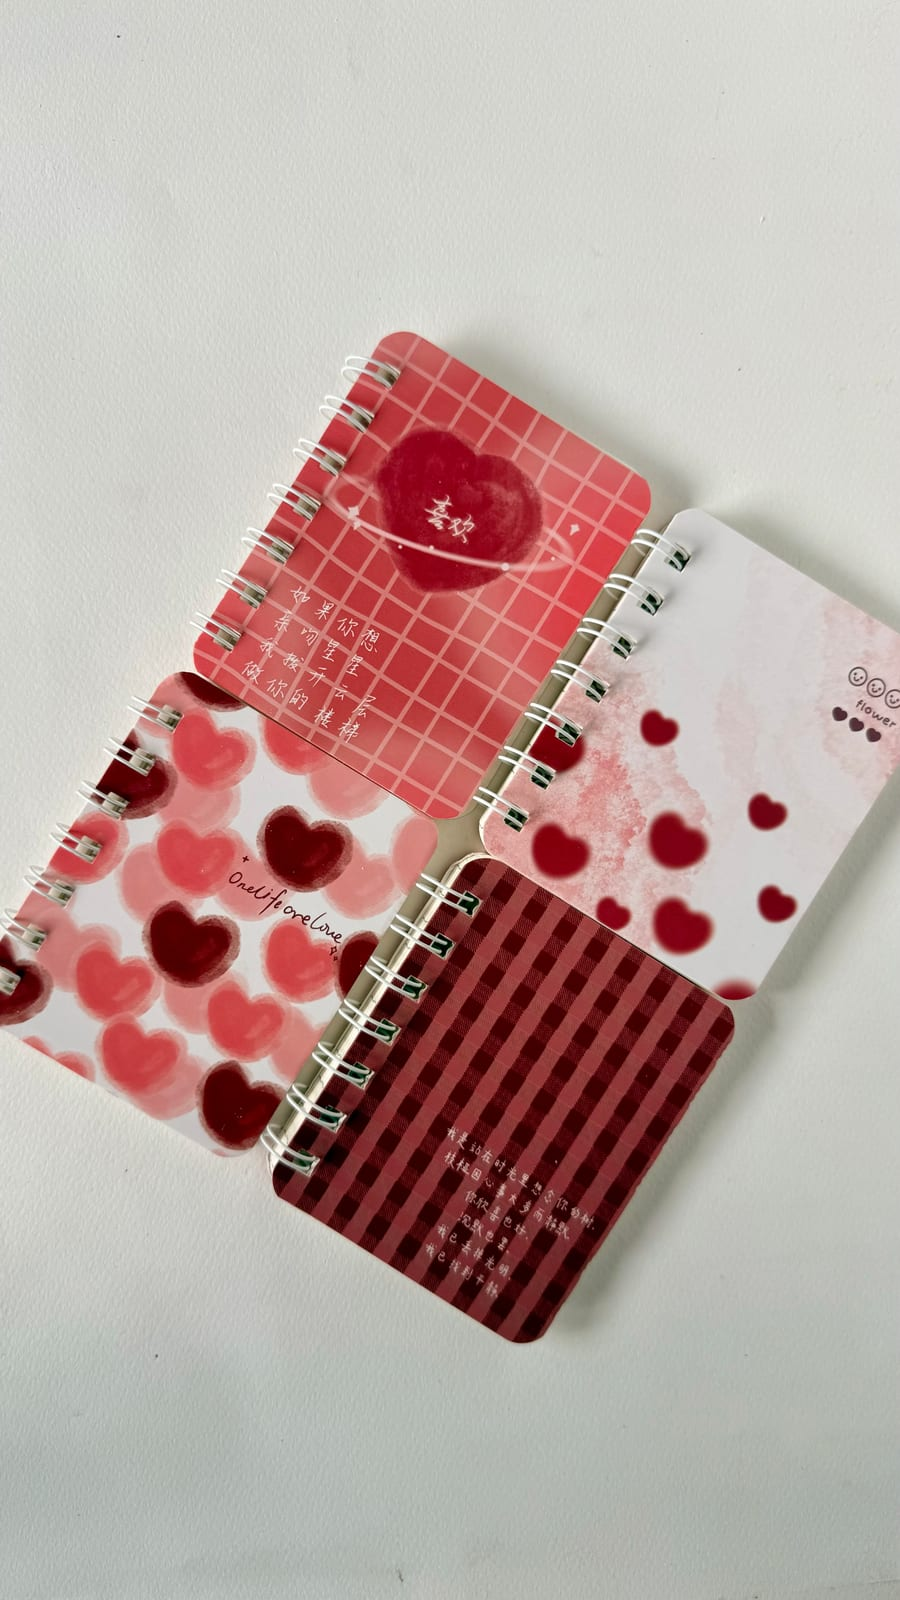
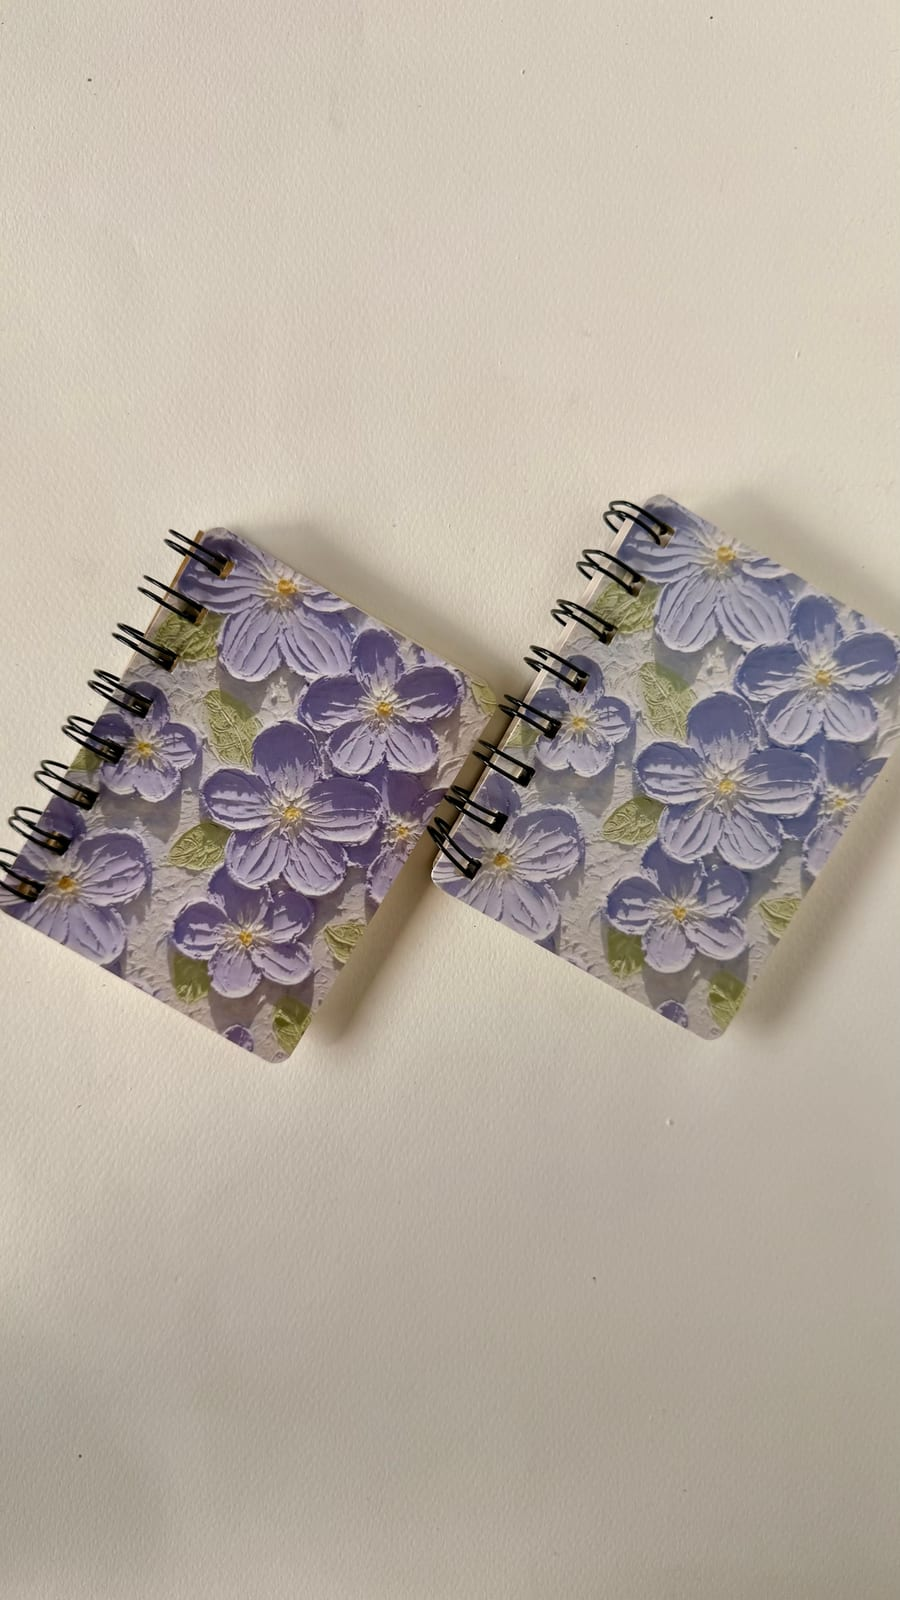
Regroup diaries from TPS DATA folders with closed-cover display images, refresh pens, and remove the eidi intro showcase photos.

diff --git a/src/pages/ShopCategoryPage.jsx b/src/pages/ShopCategoryPage.jsx
@@ -98,7 +98,6 @@ export default function ShopCategoryPage() {
 
   const gridTitle = occasion ? occasion.label : sub ? sub.label : cat.label
   const gridSubtitle = sub?.tagline || cat.description || null
-  const showcaseImages = !sub && !type && cat.showcaseImages?.length ? cat.showcaseImages : null
   const pagePath = shopPath(normalizedCategory, normalizedSub, type || null)
   const seo = categorySeo(cat, sub, occasion)
   const breadcrumbItems = [
@@ -151,23 +150,6 @@ export default function ShopCategoryPage() {
             <TypePills category={cat} subcategory={sub} activeTypeSlug={type || null} />
           )}
         </div>
-
-        {showcaseImages && (
-          <div className="mx-auto max-w-7xl px-4 pt-2 sm:px-6 lg:px-8">
-            <div className="category-showcase">
-              {showcaseImages.map((src) => (
-                <img
-                  key={src}
-                  src={src}
-                  alt="Eidi and money envelopes"
-                  className="category-showcase-image"
-                  loading="eager"
-                  decoding="async"
-                />
-              ))}
-            </div>
-          </div>
-        )}
 
         {isWebsiteInvitation ? (
           <WebsiteInviteSlider

diff --git a/src/components/ProductCard.jsx b/src/components/ProductCard.jsx
@@ -146,13 +146,16 @@ function ProductMedia({ product, onOpenLightbox }) {
       decoding="async"
       fetchPriority={index === 0 ? 'high' : 'auto'}
       draggable={false}
-      className="pointer-events-none h-full w-full object-cover sm:transition-transform sm:duration-400 sm:ease-out sm:group-hover:scale-105"
+      className="pointer-events-none h-full w-full object-cover object-center sm:transition-transform sm:duration-400 sm:ease-out sm:group-hover:scale-105"
+      onError={(event) => {
+        event.currentTarget.style.opacity = '0'
+      }}
     />
   )
 
   return (
     <div
-      className={`relative mb-4 aspect-[4/5] cursor-zoom-in overflow-hidden rounded-xl bg-paperstory-blush/30${hasGallery ? ' touch-pan-y' : ''}`}
+      className={`relative mb-4 aspect-[4/5] cursor-zoom-in overflow-hidden rounded-xl bg-paperstory-blush/40${hasGallery ? ' touch-pan-y' : ''}`}
       style={{ touchAction: hasGallery ? 'pan-y' : 'manipulation' }}
       onPointerDown={onPointerDown}
       onPointerMove={onPointerMove}

diff --git a/src/data/seo-product-names.js b/src/data/seo-product-names.js
@@ -122,14 +122,11 @@ export const SEO_DIARIES = {
   2: 'Lavender Tulip Aesthetic Pocket Journal',
   3: 'Silent Rose Vintage Mini Diary Set',
   4: 'Blue Happy Day Floral Pocket Notebook',
-  5: 'Cute Heart Smile Flower Mini Diary',
-  6: 'One Life One Love Heart Pocket Journal',
-  7: 'Blush Floral Checkered Mini Diary',
-  8: 'Dreamy Pastel Bloom Pocket Notebook',
-  9: 'Soft Peach Petal Spiral Mini Diary',
-  10: 'Cherry Blossom Cute Pocket Journal',
-  11: 'Mint Garden Floral Mini Diary',
-  12: 'Green Daisy Plaid Pocket Notebook',
+  5: 'One Life One Love Heart Pocket Journal',
+  6: 'Lavender Bloom Textured Mini Diary',
+  7: 'Green Daisy Plaid Pocket Notebook',
+  8: 'Lucky Red Floral Spiral Mini Diary',
+  9: 'Day & Night Sky Mini Diary Set',
 }
 
 export const SEO_GREETING = {

diff --git a/src/index.css b/src/index.css
@@ -1758,26 +1758,3 @@ h1, h2, h3, h4 {
   max-width: 24rem;
 }
 
-/* ── Category showcase (eidi intro photos) ── */
-.category-showcase {
-  display: grid;
-  grid-template-columns: 1fr;
-  gap: 0.75rem;
-  margin-bottom: 0.5rem;
-}
-
-@media (min-width: 640px) {
-  .category-showcase {
-    grid-template-columns: 1fr 1fr;
-    gap: 1rem;
-  }
-}
-
-.category-showcase-image {
-  width: 100%;
-  aspect-ratio: 4 / 5;
-  object-fit: cover;
-  border-radius: 1rem;
-  background: rgba(163, 30, 59, 0.06);
-}
-

diff --git a/src/data/products.js b/src/data/products.js
@@ -240,8 +240,7 @@ export const shopCategories = [
     label: 'Eidi and Money Envelopes',
     shortLabel: 'Eidi & Money Envelopes',
     description: '',
-    image: eidiPostcardsGallery.eidi.intro[0] || '/eidi/friends-theme/01.jpg',
-    showcaseImages: eidiPostcardsGallery.eidi.intro,
+    image: '/eidi/friends-theme/01.jpg',
     showPrice: false,
     paymentType: 'advance',
     whatsappMode: 'price',
